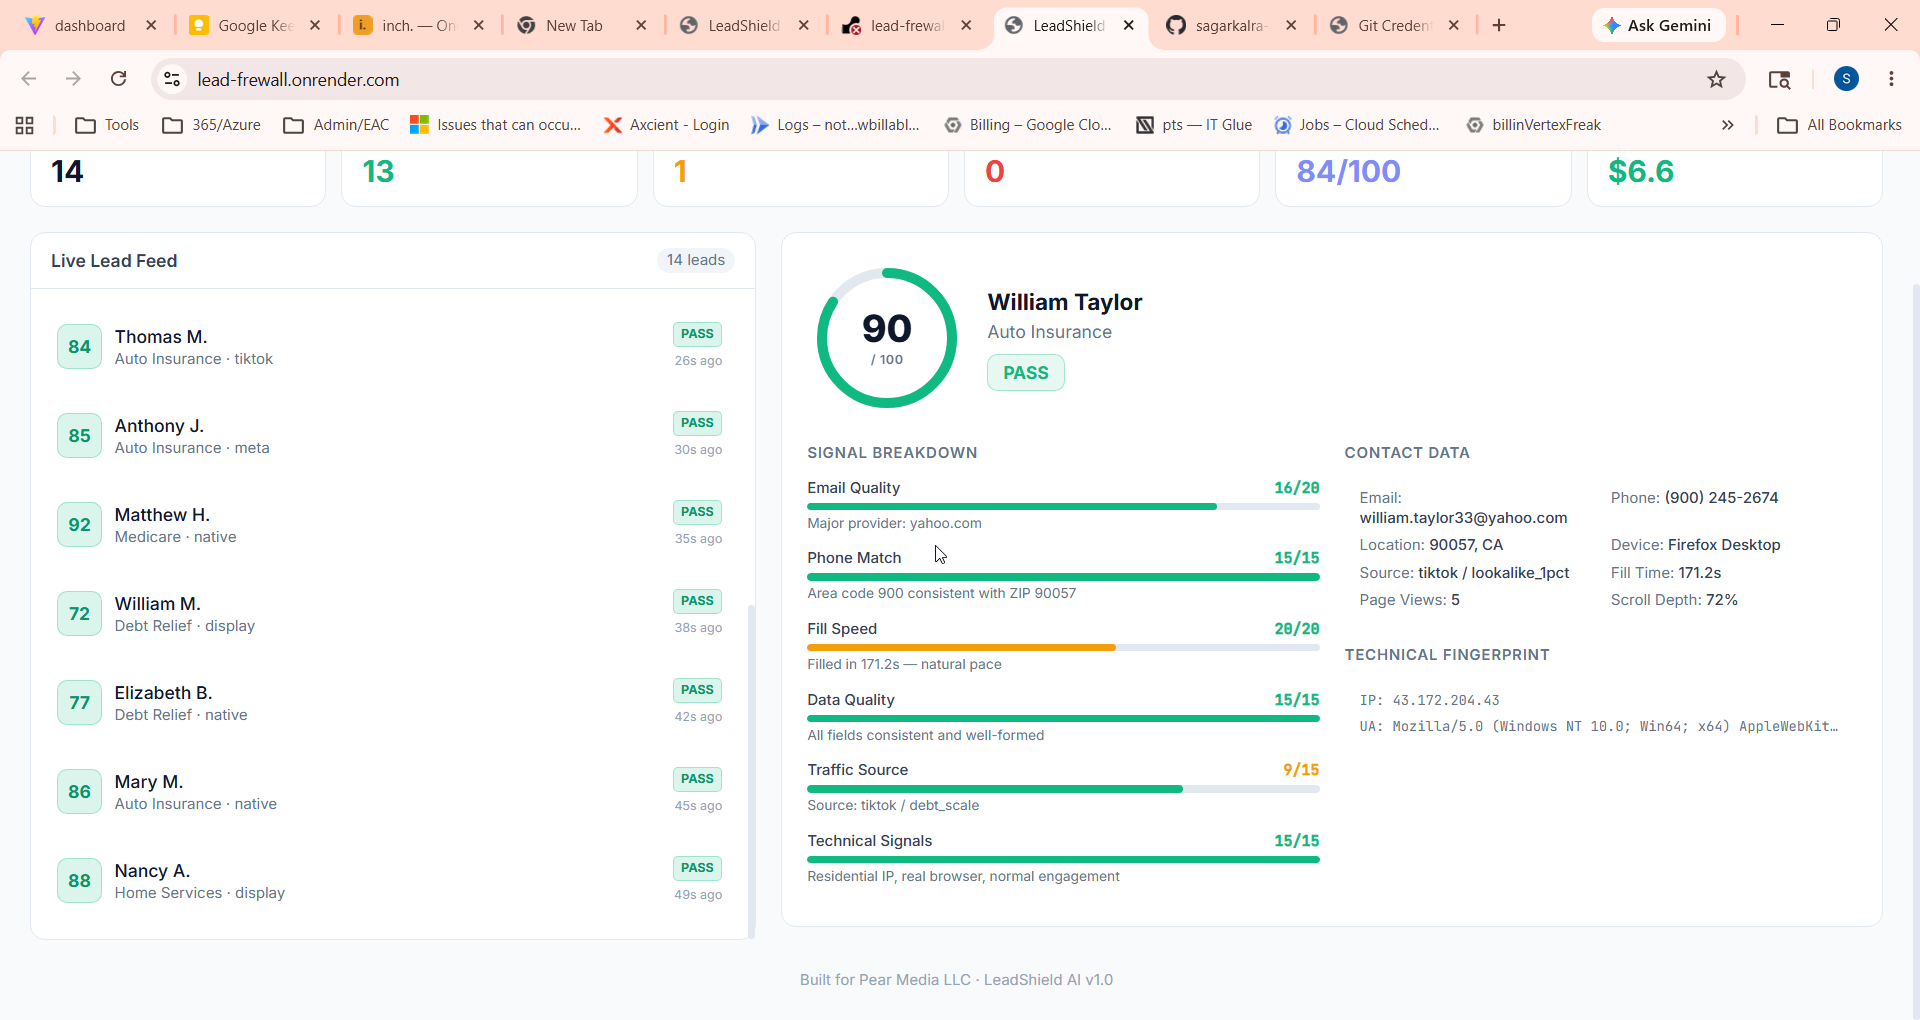
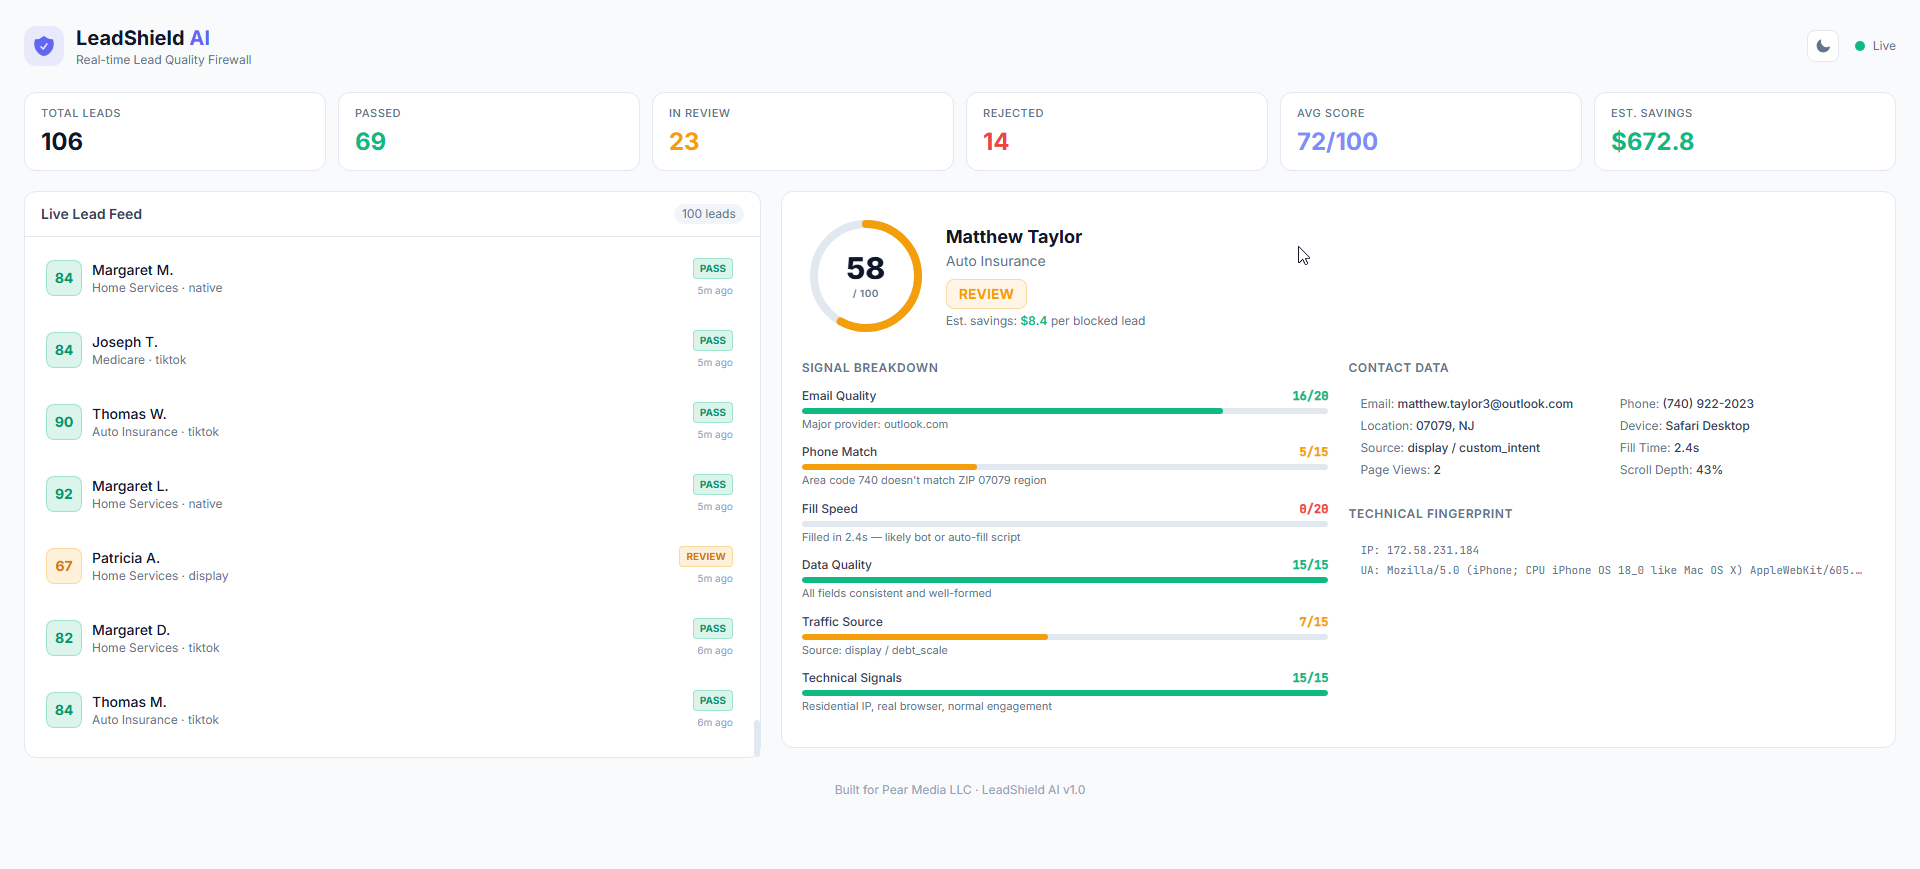
update screenshot + add proposal link to live site footer

diff --git a/src/App.tsx b/src/App.tsx
@@ -120,7 +120,10 @@ export default function App() {
 
       {/* Footer */}
       <footer className="mt-6 text-center text-xs text-th-faint">
-        Built for Pear Media LLC &middot; LeadShield AI v1.0
+        Built for Pear Media LLC &middot; LeadShield AI v1.0 &middot;{" "}
+        <a href="https://github.com/sagarkalra-dev/lead-frewall" target="_blank" rel="noopener noreferrer" className="text-accent hover:text-accent-light transition-colors">
+          Read the full proposal
+        </a>
       </footer>
     </div>
   );
